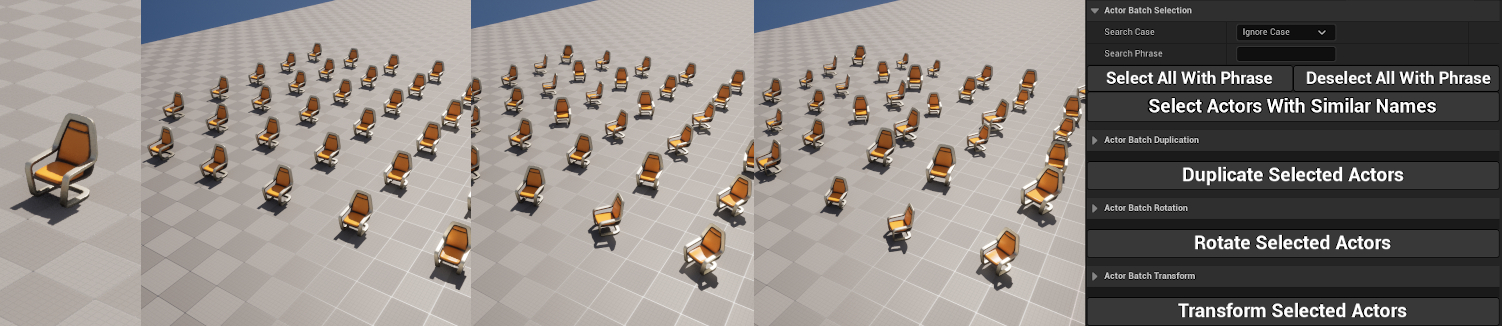
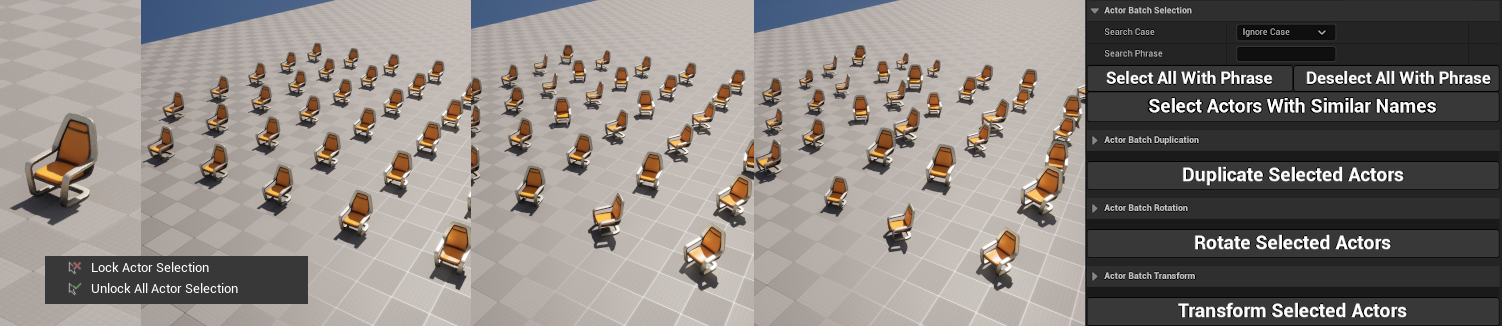
Extra G4 update

Changed region(s): [[0.0306, 0.7669, 0.2144, 0.9509]]

diff --git a/generic4.html b/generic4.html
@@ -68,7 +68,8 @@
 							
 							<span class="image main"><img src="images/pic21.jpg" alt="" /></span>
 							<p>Shown here is a widget for quick selection and alteration of multiple assets in the editor.<br />
-							The user may select assets by similar names to a selected asset, or a searchphrase, and duplicate along with altering the rotation, offset and scale by a random amount within user-defined limits.</p>
+							The user may select assets by similar names to a selected asset, or a searchphrase, and duplicate along with altering the rotation, offset and scale by a random amount within user-defined limits.<br />
+							Also shown is a level editor actor menu extension that allows the user to prevent selection of a given actor through use of an applied actor tag, interacting with and preventing any attempt to select the actor. This may then be removed with a neighbouring action.</p>
 							
 							
 							<p>As well as the expansion of current features, I am also learning about and creating further features.<br />
